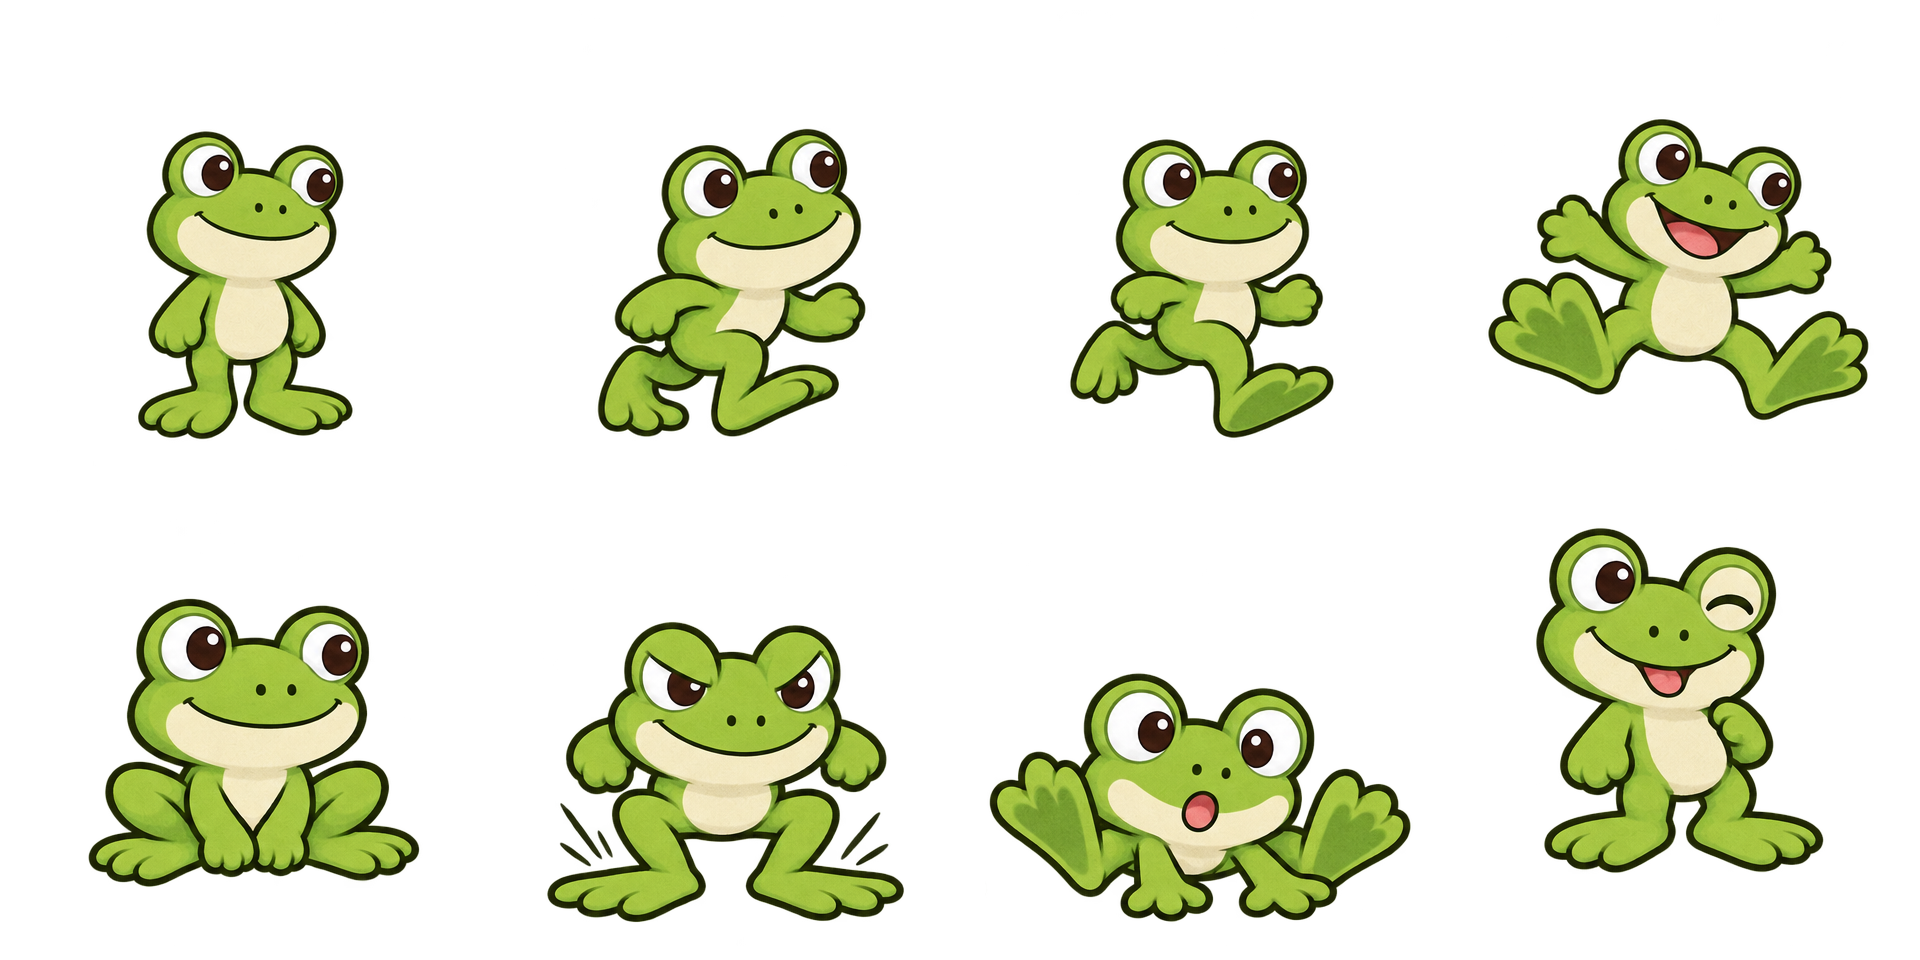
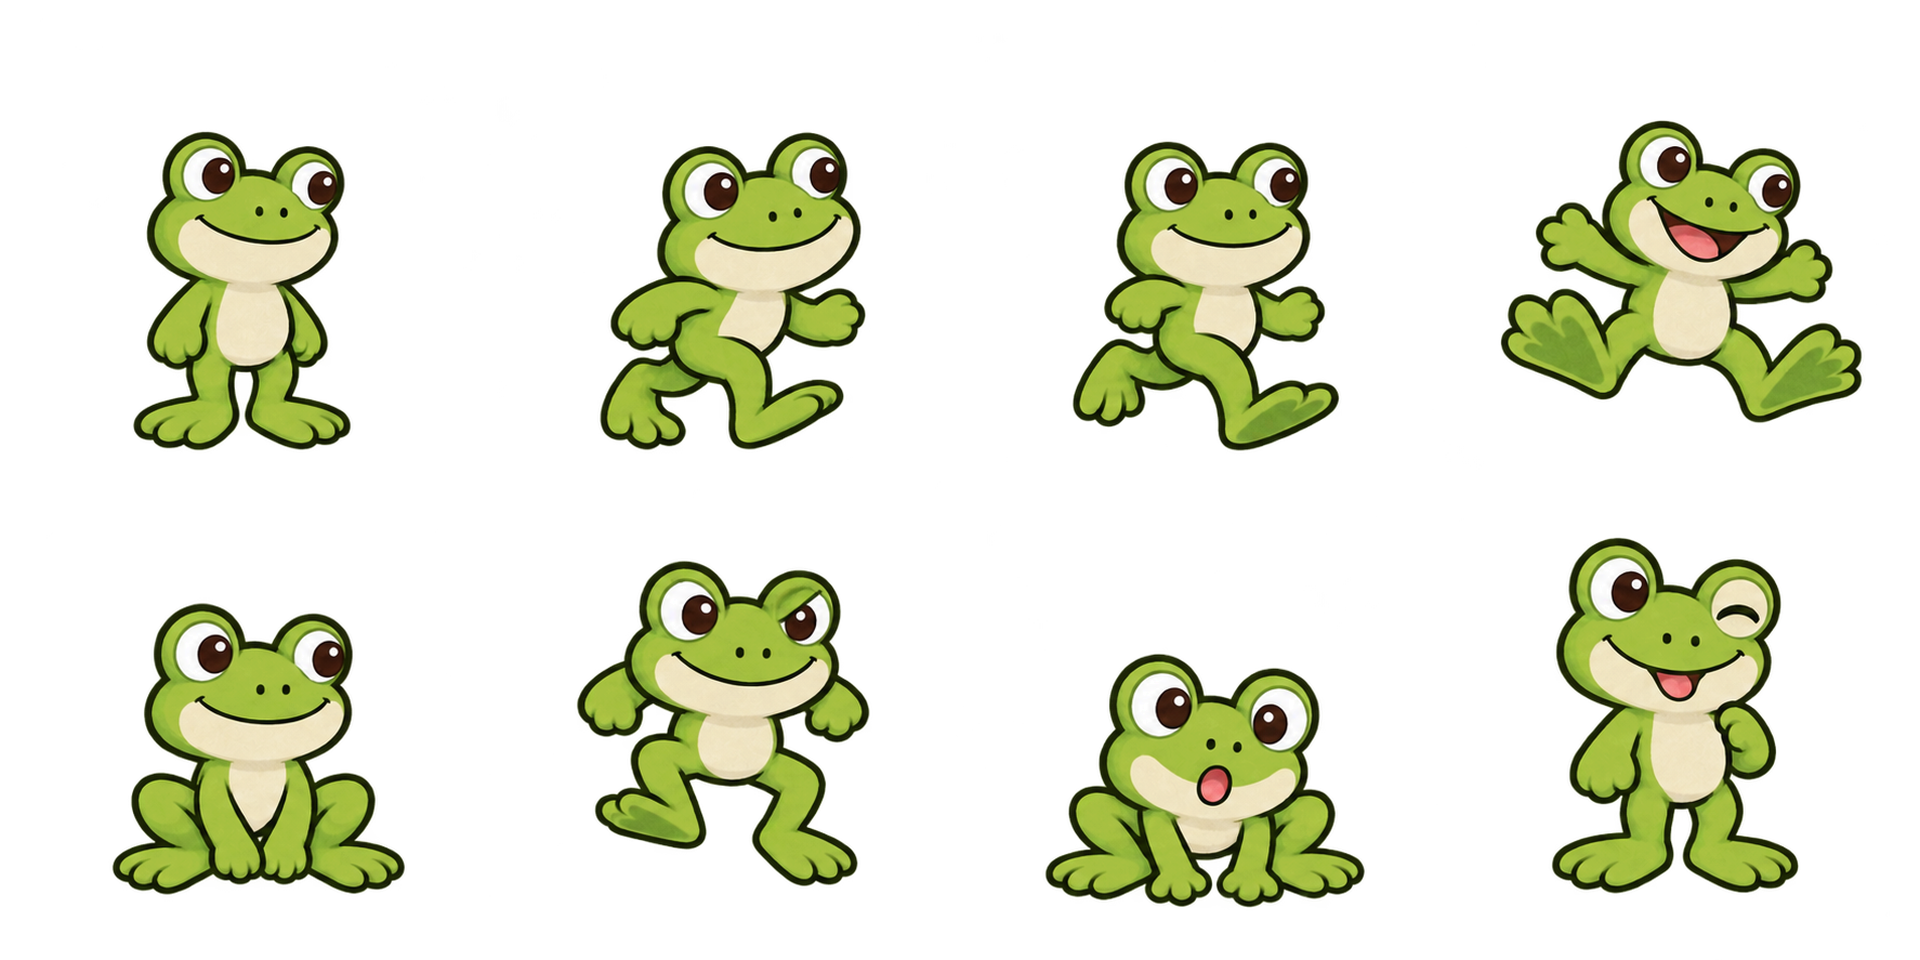
Keep frog proportions consistent across poses (#73)
* fix: keep frog proportions consistent across poses

* fix: clear inherited movement effect lint errors

---------

diff --git a/src/engine/cosmeticStep.test.ts b/src/engine/cosmeticStep.test.ts
@@ -45,7 +45,7 @@ installMockCanvas2D();
 
 // Import after mocks are set up
 import { GameLoop } from './gameLoop';
-import { getTheme, registerBuiltinArenas } from './arenas';
+import { registerBuiltinArenas } from './arenas';
 import { registerBuiltinCharacters } from './characters';
 import { audio } from './audio';
 import type { ParticleSystem } from './gameLoop/cosmetics/ParticleSystem';

diff --git a/.claude/skills/character-sprites.md b/.claude/skills/character-sprites.md
@@ -77,6 +77,10 @@ legStyle?: {
 
 ## Lessons Learned
 
+### Frog pose consistency
+
+Use the standing frog as the anatomy reference for its eight painted poses: preserve head width, eye spacing, torso volume, limb thickness, foot size, and outline weight while changing joint angles and expressions. Seated and stomp silhouettes should not become a larger, heavier frog. Update `docs/mockups/character-roster-expressive/frog-expressive-atlas.png` and its 384×192 runtime WebP together; the source uses 480×480 cells. Check all eight cells side by side and verify loading and clipping in both worker modes.
+
 ### Expressive Pocket Plush runtime
 
 The [playable roster](../../../docs/mockups/playable-plush-roster/README.md) uses eight authored beats per animal: idle, alternating walk contacts, jump, sit, fast stomp, landing, and attention. `plush/playableRoster.ts` maps physics and idle-action state to those beats; species differences are drawn in each sheet. Keep authored poses out of the old body lean and squash transforms, while preserving the small seated movement sway. Runtime sheets are generated from the approved high-resolution studies by `scripts/generatePlayablePlush.py` at 96 pixels per cell and WebP quality 88, retaining at least 2x displayed resolution. Keep the source sheets and generated files in sync. Authored ears, horns, tails, and quills can extend beyond the 32-pixel collision box, so the sprite cache uses 16 pixels of padding for these packs. Verify at actual match size in both default sim-worker and `?simWorker=off` modes; a concept-sheet preview does not establish that game rendering or loading works.
